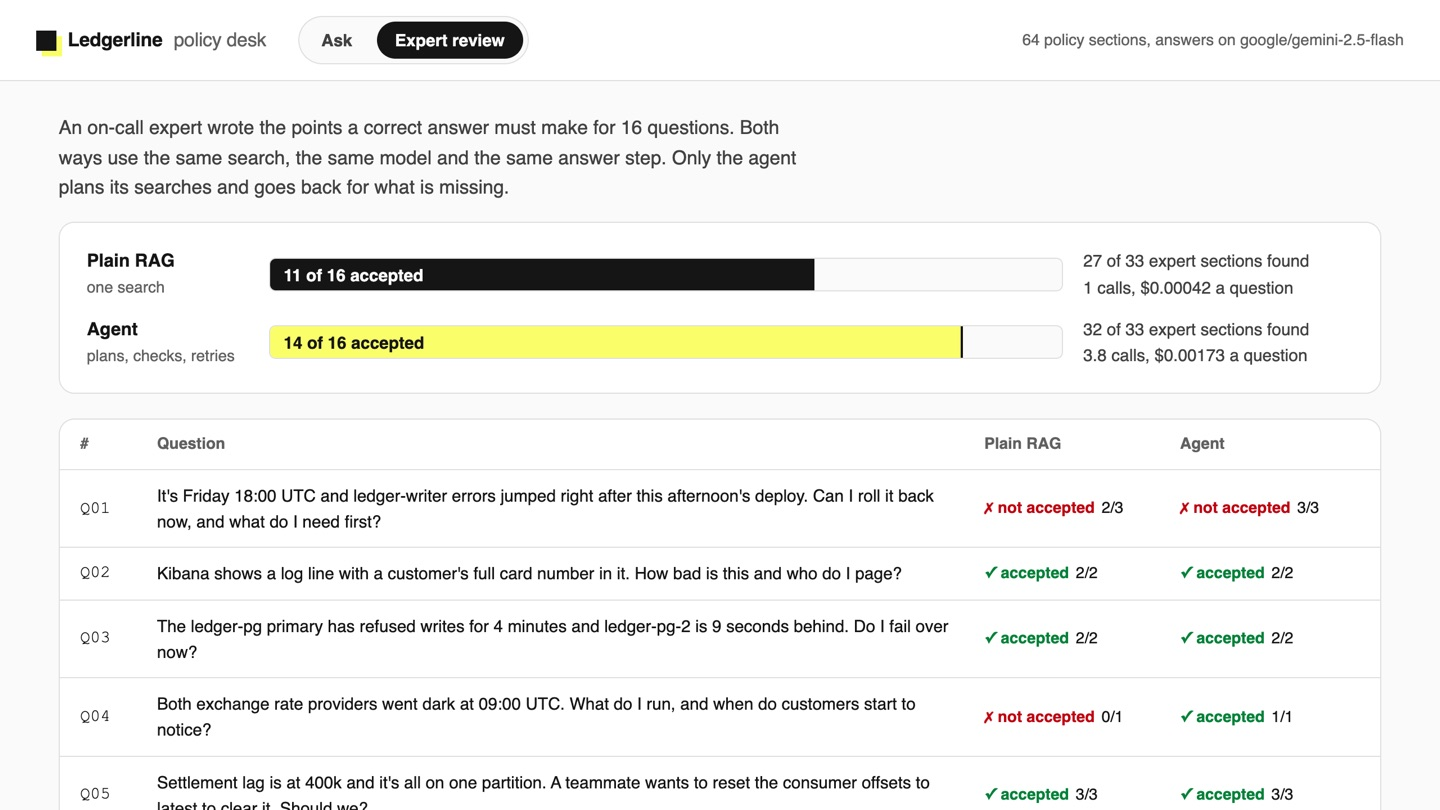
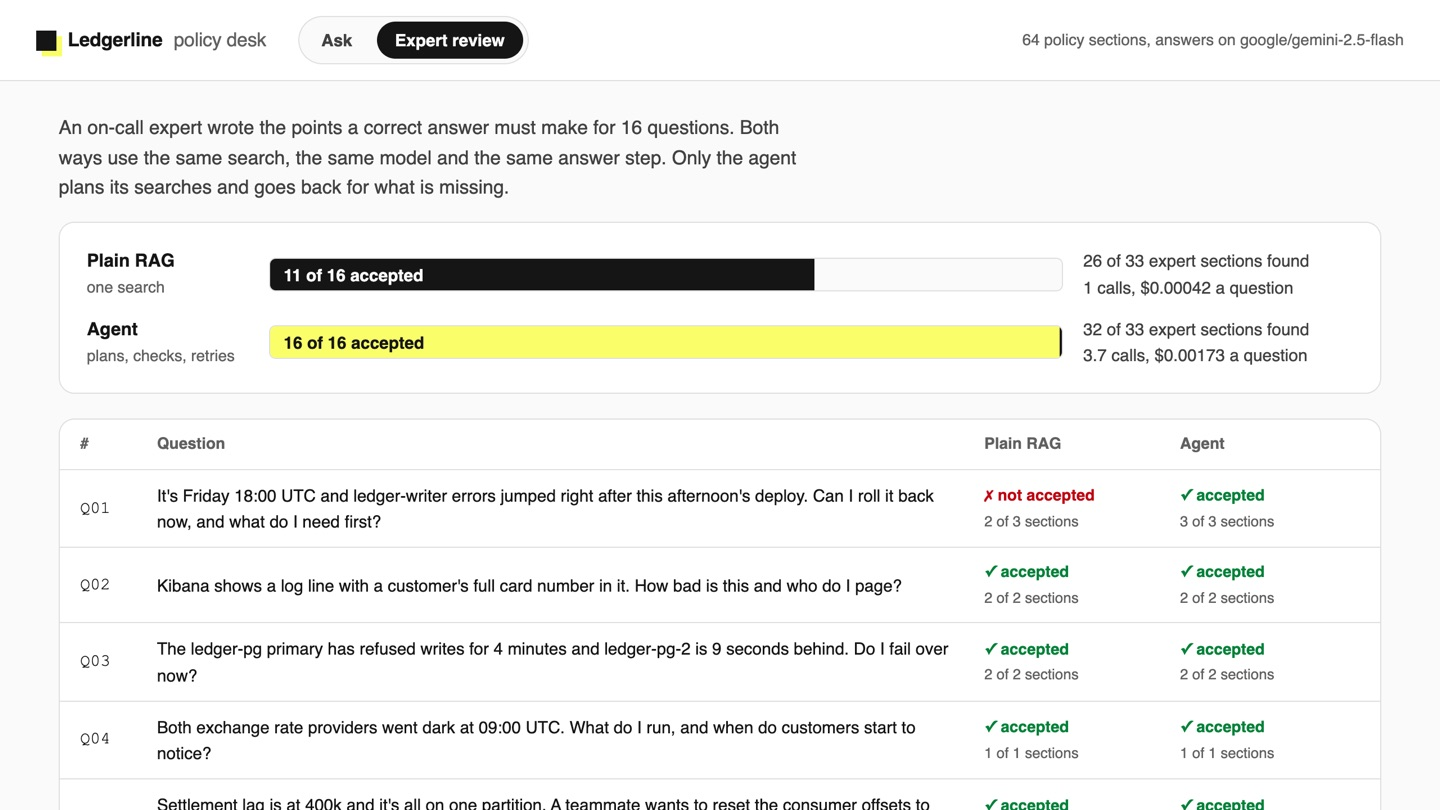
Lab 7: stem the search index, show sections in the review, raise the proof bar
Without a stemmer "deploys" in the freeze window never matched "deploy" in a
search, so the agent sometimes missed the freeze. With it the agent is accepted
on 16 of 16 against plain RAG's 10 or 11; the proof now asserts at least 14.

diff --git a/labs/07-agentic-rag/src/policy/page.html b/labs/07-agentic-rag/src/policy/page.html
@@ -119,8 +119,9 @@ main { max-width: 1240px; margin: 0 auto; padding: 28px 32px 56px }
 .row:not(.head):hover { background: var(--paper) }
 .row[aria-expanded="true"] { background: var(--paper) }
 .row .q { font-size: 15px }
-.pill { display: inline-flex; gap: 6px; align-items: baseline; font-size: 14px }
-.pill b { font-size: 14px }
+.pill { display: flex; flex-direction: column; gap: 2px; font-size: 14px }
+.pill b { font-size: 14px; white-space: nowrap }
+.pill small { color: var(--muted); font-size: 13px; white-space: nowrap }
 .open { padding: 4px 18px 18px; background: var(--paper); border-top: 1px dashed var(--line) }
 .pair { display: flex; gap: 18px; flex-wrap: wrap }
 .pair > div { flex: 1 1 320px; background: var(--card); border: 1px solid var(--line); border-radius: 10px; padding: 12px 14px; font-size: 15px }
@@ -343,10 +344,10 @@ async function loadReview() {
     const s = review[key];
     return `<div class="name">${name}<small>${sub}</small></div>
       <div class="bar ${cls}"><i style="width:${(100 * s.accepted / s.total).toFixed(1)}%"></i><span>${s.accepted} of ${s.total} accepted</span></div>
-      <div class="cost">${s.found} of ${s.needs} expert sections found<br>${s.calls_per_question} calls, $${s.cost_per_question.toFixed(5)} a question</div>`;
+      <div class="cost">${s.found} of ${s.needs} expert sections found<br>${s.calls_per_question} ${s.calls_per_question === 1 ? "call" : "calls"}, $${s.cost_per_question.toFixed(5)} a question</div>`;
   };
   const rows = Object.fromEntries(review.rows.map((r) => [`${r.id}/${r.how}`, r]));
-  const cell = (r) => `<span class="pill"><b class="${r.accepted ? "ok" : r.covered ? "bad" : "waiting"}">${r.accepted ? "✓ accepted" : r.covered ? "✗ not accepted" : "to a person"}</b> ${r.found}/${r.needs}</span>`;
+  const cell = (r) => `<span class="pill"><b class="${r.accepted ? "ok" : r.covered ? "bad" : "waiting"}">${r.accepted ? "✓ accepted" : r.covered ? "✗ not accepted" : "to a person"}</b> <small>${r.found} of ${r.needs} sections</small></span>`;
   const ids = [...new Set(review.rows.map((r) => r.id))].sort();
   const body = ids.map((id) => {
     const p = rows[`${id}/plain`], a = rows[`${id}/agentic`], q = room.questions.find((x) => x.id === id);

diff --git a/labs/07-agentic-rag/src/policy/search.py b/labs/07-agentic-rag/src/policy/search.py
@@ -6,10 +6,13 @@ engineers and the runbooks share words like "ledger-writer" and "FLUSHALL".
 """
 
 import bm25s
+import Stemmer
 
 from policy.ingest import Passage
 
 K = 3
+# "deploys" in a section must match "deploy" in a search; without a stemmer they are different words.
+STEM = Stemmer.Stemmer("english")
 
 
 class Policies:
@@ -19,10 +22,10 @@ class Policies:
         # The document title and heading go into the index too: "Freeze window" is the words a person searches.
         corpus = [f"{p.doc} {p.section} {p.text}" for p in passages]
         self.index = bm25s.BM25()
-        self.index.index(bm25s.tokenize(corpus, stopwords="en", show_progress=False), show_progress=False)
+        self.index.index(bm25s.tokenize(corpus, stopwords="en", stemmer=STEM, show_progress=False), show_progress=False)
 
     def search(self, query: str, k: int = K) -> list[Passage]:
-        tokens = bm25s.tokenize([query], stopwords="en", show_progress=False)
+        tokens = bm25s.tokenize([query], stopwords="en", stemmer=STEM, show_progress=False)
         found, scores = self.index.retrieve(tokens, k=min(k, len(self.passages)), show_progress=False)
         # A score of 0 means no shared word: that passage would only invite a guess.
         return [self.passages[i] for i, s in zip(found[0], scores[0]) if s > 0]

diff --git a/labs/07-agentic-rag/tests/test_proof.py b/labs/07-agentic-rag/tests/test_proof.py
@@ -12,7 +12,7 @@ from policy.review import review
 from policy.search import Policies
 
 LAB = Path(__file__).parent.parent
-MIN_ACCEPTED = 13  # of 16 agent answers the expert's points must accept
+MIN_ACCEPTED = 14  # of 16 agent answers the expert's points must accept
 MIN_FOUND = 30  # of the 33 sections the expert's answers use, in front of the agent's model
 
 

diff --git a/labs/07-agentic-rag/README.md b/labs/07-agentic-rag/README.md
@@ -14,7 +14,7 @@ searches and checks what it found. That raised acceptable answers by 27% and cut
 - **The source of truth** is `data/expert.jsonl`: 16 on-call questions. For each, an expert listed
   the sections a correct answer uses and the points it must make.
 - **The metric** is the share of answers the expert's points accept. The proof test asserts the agent
-  gets at least 13 of 16 accepted, more than plain RAG, and finds at least 30 of the 33 sections.
+  gets at least 14 of 16 accepted, more than plain RAG, and finds at least 30 of the 33 sections.
 
 ## What you will be able to do
 
@@ -41,7 +41,7 @@ Check to Search. Each stop lights as the agent finishes it. The log below shows 
 newly found sections in yellow. The answer on the right cites each section by number. When the
 policies do not cover a question, it goes to the policy owners instead of guessing.
 
-<img src="docs/policy-desk.jpg" alt="Ledgerline policy desk: the agent planned four searches, including the weekend deploy freeze, and answered with the two approvals the expert expects" width="720">
+<img src="docs/policy-desk.jpg" alt="Ledgerline policy desk: on slow card payments the agent planned four searches, including incident severity, and went back once for what was missing" width="720">
 
 ## Words you will use
 
@@ -55,7 +55,7 @@ policies do not cover a question, it goes to the policy owners instead of guessi
 
 You need [uv](https://docs.astral.sh/uv/) and an [OpenRouter](https://openrouter.ai) key. Search is
 [bm25s](https://github.com/xhluca/bm25s), keyword search in memory, the same for both ways of
-answering.
+answering. A stemmer makes "deploys" in a policy match "deploy" in a search.
 
 ```bash
 uv sync
@@ -76,8 +76,9 @@ uv run policy ask --plain "Product wants the new checkout flag turned on for eve
 
 Expect: /Cited:/
 
-In our runs it found the feature flag rule, which says a flag change "follows the freeze". It did not
-find the freeze window itself, so it could not say whether Saturday is inside it.
+It finds the feature flag rule, which says a flag change "follows the freeze". It does not find the
+freeze window itself, so nothing in front of the model says whether Saturday is inside it. Some runs
+say they cannot tell; others guess.
 
 ## 2. Ask the agent
 
@@ -105,8 +106,8 @@ uv run policy review
 
 Expect: /agentic\s+\d+ of 16/
 
-In our runs plain RAG was accepted on 11 of 16 and the agent on 13 or 14 of 16. The agent had 31 or 32
-of the 33 sections the expert used in front of it, against 27 for plain RAG. It cost about 4 model calls a
+In our runs plain RAG was accepted on 10 or 11 of 16 and the agent on 16 of 16. The agent had 31 or
+32 of the 33 sections the expert used in front of it, against 26 for plain RAG. It cost about 4 model calls a
 question instead of 1, under a fifth of a cent. `out/review.json` holds every answer and grade, and each miss names the expert's point it missed.
 
 ## 4. See it
@@ -117,12 +118,13 @@ Start the desk and open http://127.0.0.1:8000:
 uv run policy serve
 ```
 
-Pick Q01 from the expert's set and press **Ask the policies**. Watch the route: the plan adds a search
-for the deploy freeze, and when the check finds a section missing the loop goes back for it. The expert's points appear under the answer
+Pick Q09 from the expert's set and press **Ask the policies**. The question is about slow card
+payments, and the plan adds a search for incident severity, which holds the paging command. When the
+check finds a section missing, the loop goes back for it. The expert's points appear under the answer
 with a tick for each point made. Switch to **Plain RAG, one search** and ask again. Then open **Expert
 review** and press any row to read both answers side by side. Stop the page with Ctrl-C.
 
-<img src="docs/expert-review.jpg" alt="Expert review: plain RAG accepted on 11 of 16 questions, the agent on 14 of 16, with each question's result for both" width="720">
+<img src="docs/expert-review.jpg" alt="Expert review: plain RAG accepted on 11 of 16 questions, the agent on 16 of 16, with each question's result for both" width="720">
 
 ## 5. Prove it
 
@@ -135,7 +137,7 @@ uv run pytest -q
 
 Expect: /\d+ passed/
 
-The proof runs both ways on a real model. It fails if the agent is accepted fewer than 13 times, is
+The proof runs both ways on a real model. It fails if the agent is accepted fewer than 14 times, is
 not ahead of plain RAG, or finds fewer than 30 of the expert's sections:
 
 ```bash
@@ -160,4 +162,5 @@ every uncovered question to the document owners; those are the gaps to write nex
 
 - Set `MAX_ROUNDS = 1` in `src/policy/graph.py` and rerun `policy review`. How many answers does the retry earn?
 - Delete the "Add a search for each policy the situation triggers" sentence from `PLAN`. Which questions fail?
+- Remove `stemmer=STEM` from both calls in `src/policy/search.py` and rerun `policy review`. Which sections stop being found?
 - Write two questions of your own into `data/expert.jsonl` that need three documents, and test both ways.
